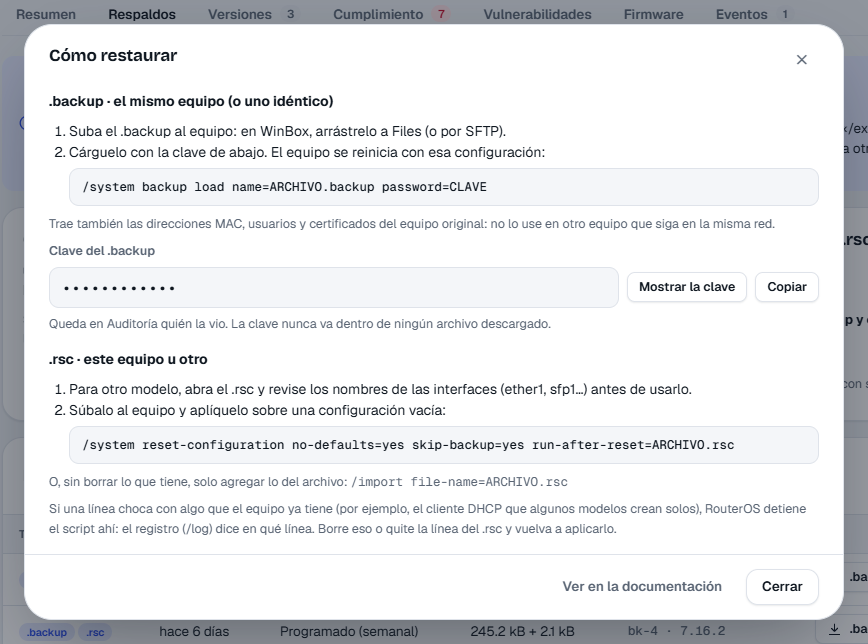
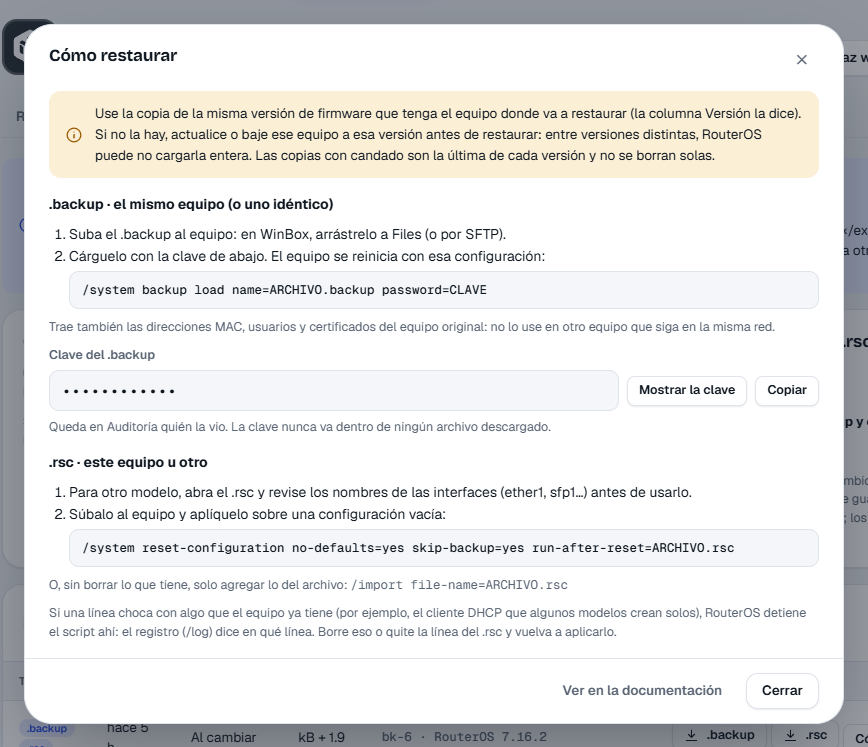
2.45.5: fotos de MikroTik y del aparato reemplazado, Proteger/Borrar y fecha (#39)
- Fotos nuevas de la 2.45.5: Respaldos de MikroTik con «Al cambiar» y copias protegidas, Cómo restaurar y el aviso de aparato reemplazado.
- MikroTik: Proteger y Borrar en cada copia y restaurar con la misma versión de firmware (ES/EN).
- EN: enlace a Retire or replace, como en español. Fecha 24 nov 2026.

diff --git a/src/sitio.ts b/src/sitio.ts
@@ -2,7 +2,7 @@
 
 export const VERSION = '2.45';
 export const VERSIONES = [{ v: '2.45', actual: true }];
-export const FECHA = { es: '21 nov 2026', en: 'Nov 21, 2026' };
+export const FECHA = { es: '24 nov 2026', en: 'Nov 24, 2026' };
 
 export const WEB = 'https://opennccm.com';
 export const REPO = 'https://github.com/Gaaraalex/opennccm';

diff --git a/src/content/docs/en/equipos/dispositivos.md b/src/content/docs/en/equipos/dispositivos.md
@@ -83,6 +83,10 @@ The device page belongs to the place (name, IP, location) and keeps its whole hi
 -   Nothing is inherited from the previous unit: the baseline (if that unit comes back, so does its baseline), the ports seen, the license and the checked permissions. A full copy of the new unit is made right away.
 -   On a ZTE C300/C320 OLT the serial is the control card's: if most of the other cards are unchanged, it warns "Control card changed" and treats it as the same OLT.
 
+![Notice on the device page when the unit changes: previous and new serial.](../../../../assets/manual/equipo-reemplazado.png)
+
+To retire a device and add another one with a new device page, use [Retire or replace](#retired-devices-damaged-or-replaced).
+
 ### Device ports
 
 Between the header and the tabs, a **port strip** draws the front of the device with one icon per port in its physical order: RJ45 for copper and an SFP cage for fiber (empty if it has no module). On large devices they go in two rows, odd ones on top and even ones below. Tapping a port shows its status, type, description, speed, address and neighbor; "See all ports" opens the **Ports** tab, with the *Interfaces* table (filters All, Up, Down, Fiber and, on large devices, Disabled and Copper; **Export CSV**) and a port card with **What the backup says**: the configuration line and the status line that explain its color.
@@ -148,7 +152,7 @@ A MikroTik's device page has the **Backups** tab with RouterOS's three kinds of 
 -   **What it does on the device:** creates both files, waits until they are fully written, brings them over SFTP (inside SSH: it opens no ports), deletes them from the device and checks that nothing was left. It only deletes its own files. A device managed over Telnet needs to move to SSH.
 -   **How many:** the latest N are kept, the .backup encrypted with its key; older ones are deleted by themselves, except protected ones (padlock).
 
-In the backup list, each copy can be downloaded (**.backup** and **.rsc**) and has **How to restore**; text versions have **View**, **Compare** and **Download**. **How to restore** explains the steps: upload the .backup to the device (in WinBox, drag it to Files, or over SFTP) and load it with its key (**Show the key**; [Audit](/en/administracion/auditoria/) records who viewed it, and the key never goes inside any downloaded file), or apply the .rsc on an empty configuration or on top of the current one.
+In the backup list, each copy can be downloaded (**.backup** and **.rsc**) and has **How to restore**; administrators can also **Protect** it (or remove the protection) and **Delete** it. Text versions have **View**, **Compare** and **Download**. **How to restore** explains the steps: upload the .backup to the device (in WinBox, drag it to Files, or over SFTP) and load it with its key (**Show the key**; [Audit](/en/administracion/auditoria/) records who viewed it, and the key never goes inside any downloaded file), or apply the .rsc on an empty configuration or on top of the current one. Use the copy from the same firmware version as the device you restore to (the Version column shows it): between different versions, RouterOS may not load all of it.
 
 :::caution[The .backup carries the device's identity]
 It also brings the original device's MAC addresses, users and certificates: do not use it on another device that is still on the same network.

diff --git a/src/content/docs/equipos/dispositivos.md b/src/content/docs/equipos/dispositivos.md
@@ -81,6 +81,8 @@ La ficha es la del lugar (nombre, IP, ubicación) y conserva todo su historial; 
 -   No se hereda lo del aparato anterior: la línea base (si ese aparato vuelve, vuelve la suya), los puertos vistos, la licencia y los permisos comprobados. Se hace enseguida una copia completa del aparato nuevo.
 -   En una OLT ZTE C300/C320 la serie es la de la tarjeta de control: si la mayoría de las demás tarjetas sigue igual, avisa «Tarjeta de control cambiada» y la trata como la misma OLT.
 
+![Aviso en la ficha cuando cambia el aparato: serie anterior y nueva.](../../../assets/manual/equipo-reemplazado.png)
+
 Para dar de baja un equipo y dar de alta otro con otra ficha, use [Retirar o reemplazar](#equipos-retirados-dañados-o-reemplazados).
 
 ![Ficha del dispositivo R1, pestaña Resumen.](../../../assets/manual/05-dispositivo.png)
@@ -150,7 +152,7 @@ La ficha de un MikroTik tiene la pestaña **Respaldos** con las tres formas de r
 -   **Qué hace en el equipo:** crea los dos archivos, espera a que terminen de escribirse, los trae por SFTP (dentro de SSH: no abre puertos), los borra del equipo y comprueba que no quedó nada. Solo borra sus propios archivos. Un equipo gestionado por Telnet necesita pasar a SSH.
 -   **Cuántos:** se guardan los últimos N, el .backup cifrado con su clave; los más viejos se borran solos, salvo los protegidos (candado).
 
-En la lista de respaldos, cada copia se descarga (**.backup** y **.rsc**) y tiene **Cómo restaurar**; las versiones de texto, **Ver**, **Comparar** y **Descargar**. **Cómo restaurar** explica los pasos: subir el .backup al equipo (en WinBox, arrastrarlo a Files, o por SFTP) y cargarlo con su clave (**Mostrar la clave**; queda en [Auditoría](/administracion/auditoria/) quién la vio, y la clave nunca va dentro de ningún archivo descargado), o aplicar el .rsc sobre una configuración vacía o encima de lo que tiene.
+En la lista de respaldos, cada copia se descarga (**.backup** y **.rsc**) y tiene **Cómo restaurar**; los administradores además la pueden **Proteger** (o quitarle la protección) y **Borrar**. Las versiones de texto tienen **Ver**, **Comparar** y **Descargar**. **Cómo restaurar** explica los pasos: subir el .backup al equipo (en WinBox, arrastrarlo a Files, o por SFTP) y cargarlo con su clave (**Mostrar la clave**; queda en [Auditoría](/administracion/auditoria/) quién la vio, y la clave nunca va dentro de ningún archivo descargado), o aplicar el .rsc sobre una configuración vacía o encima de lo que tiene. Use la copia de la misma versión de firmware que tenga el equipo donde va a restaurar (la columna Versión la dice): entre versiones distintas, RouterOS puede no cargarla entera.
 
 :::caution[El .backup trae la identidad del equipo]
 Trae también las direcciones MAC, usuarios y certificados del equipo original: no lo use en otro equipo que siga en la misma red.
